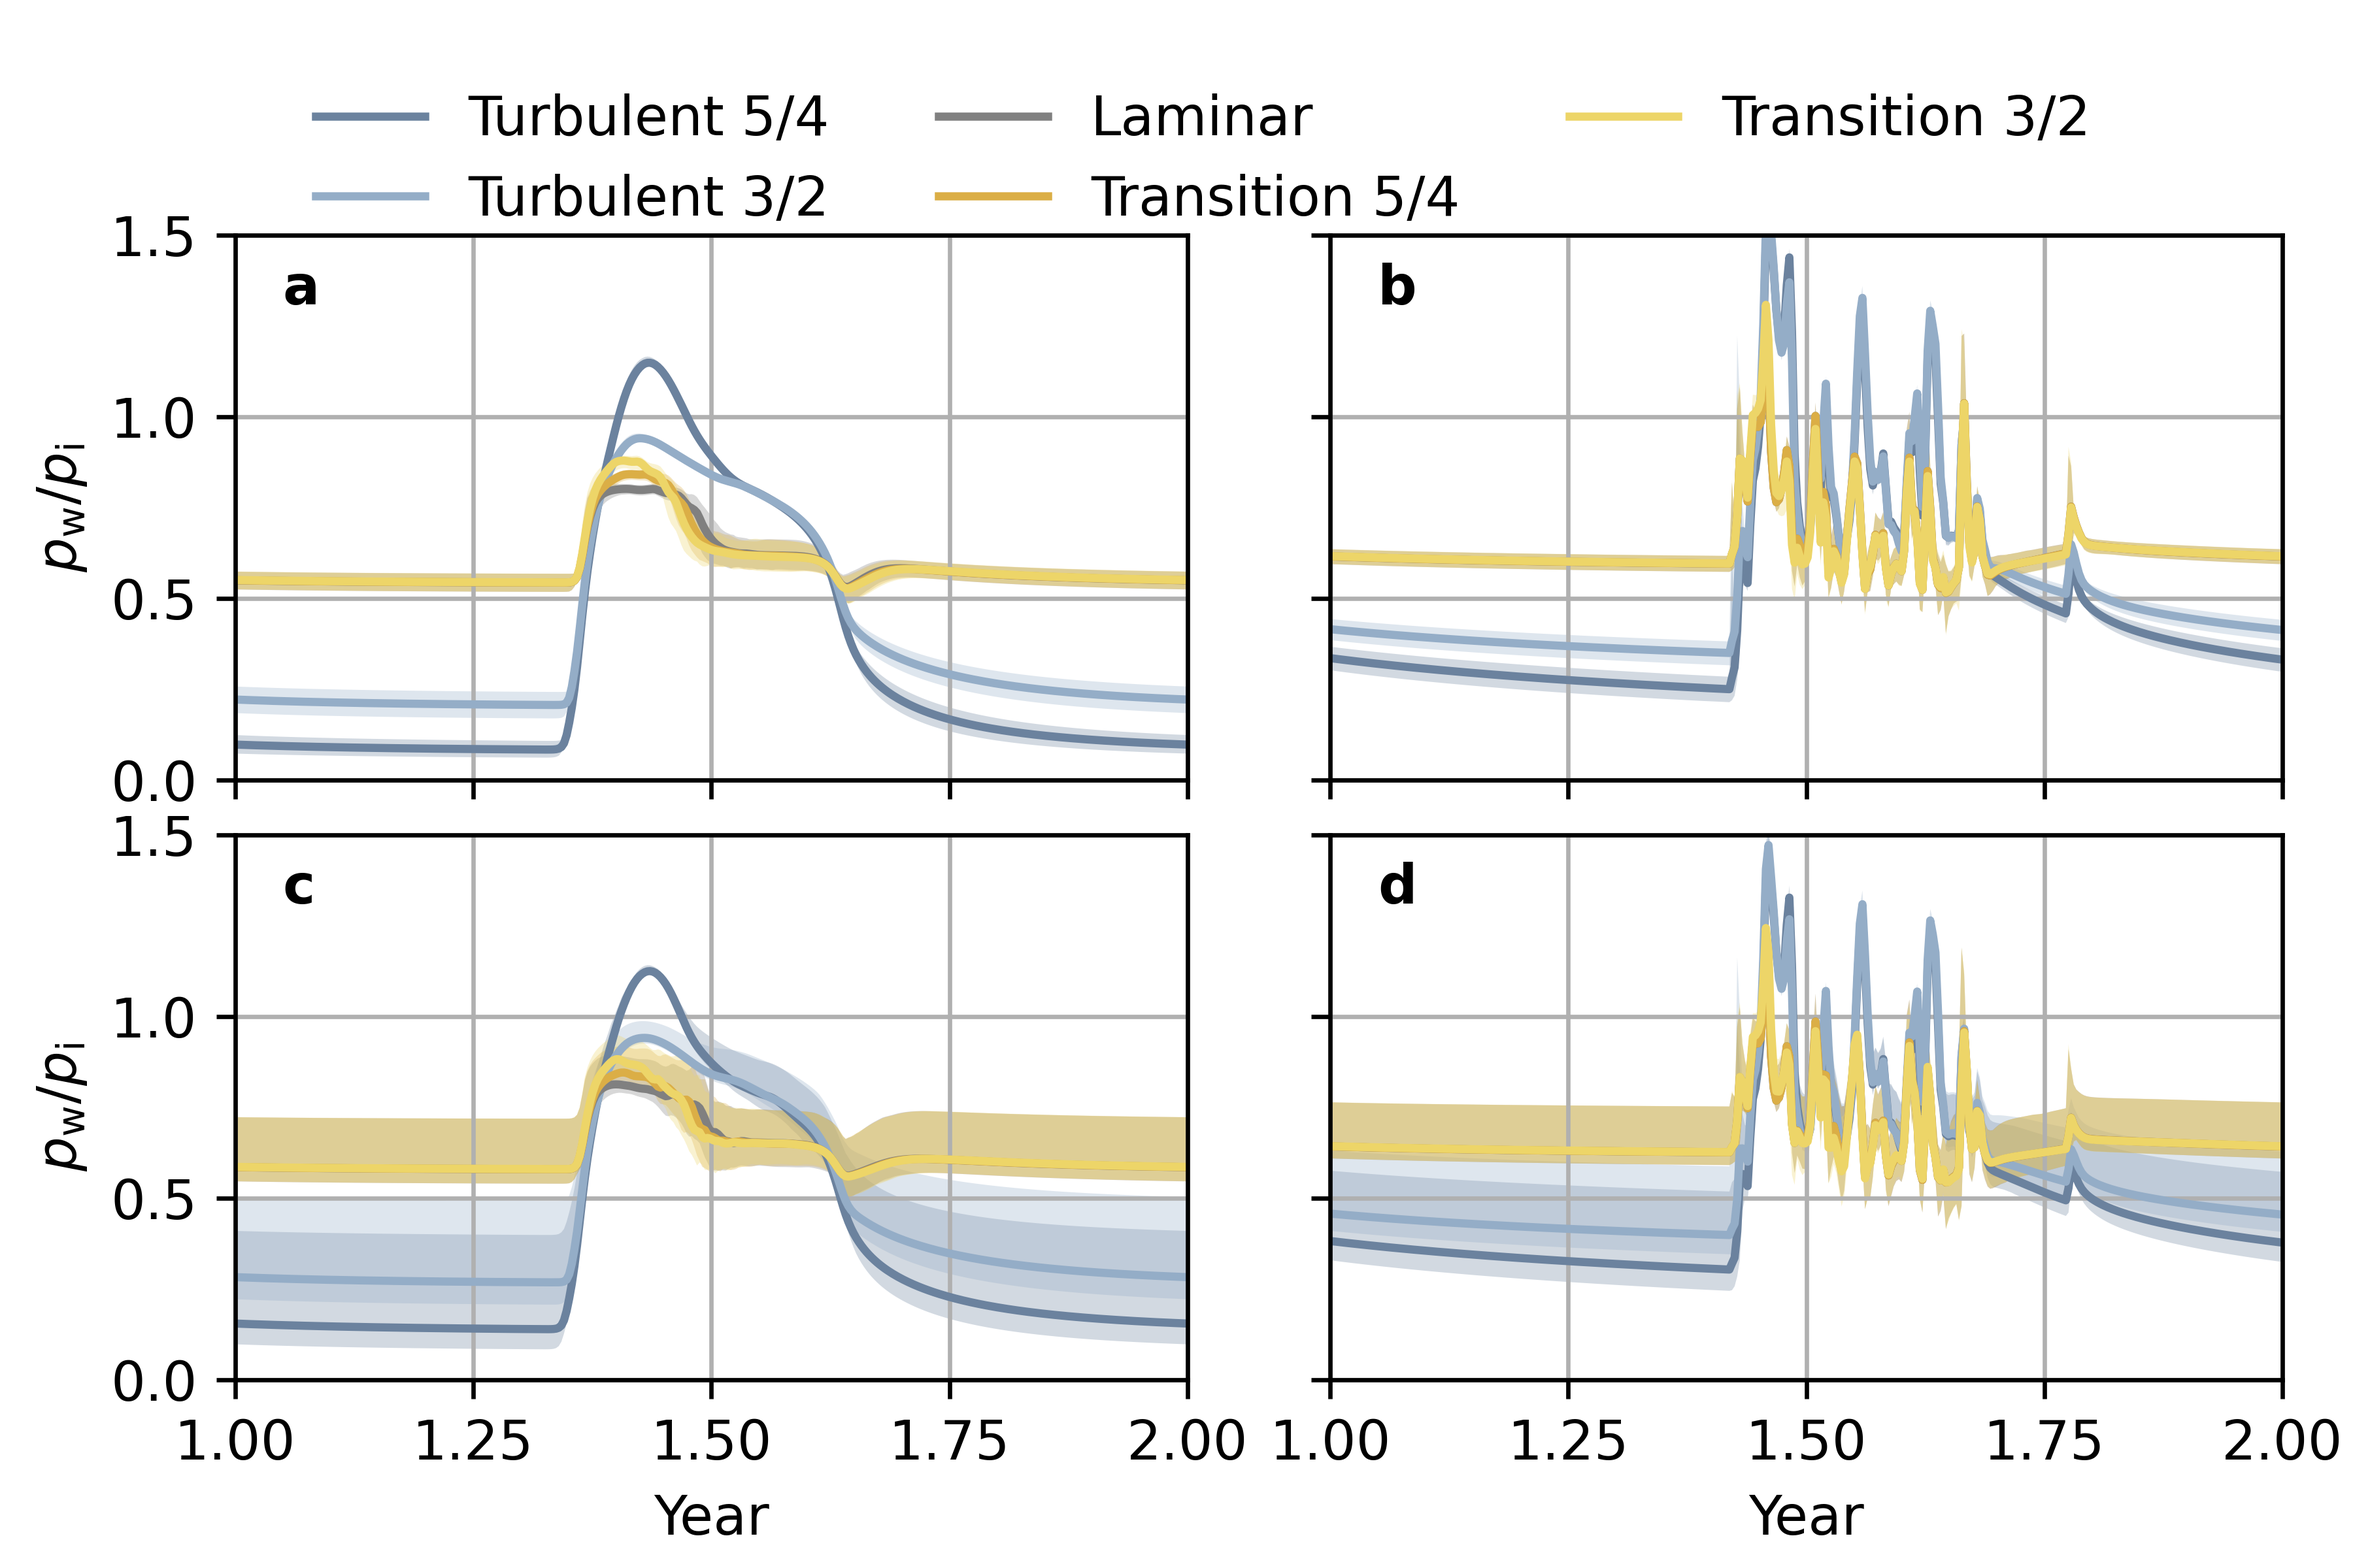
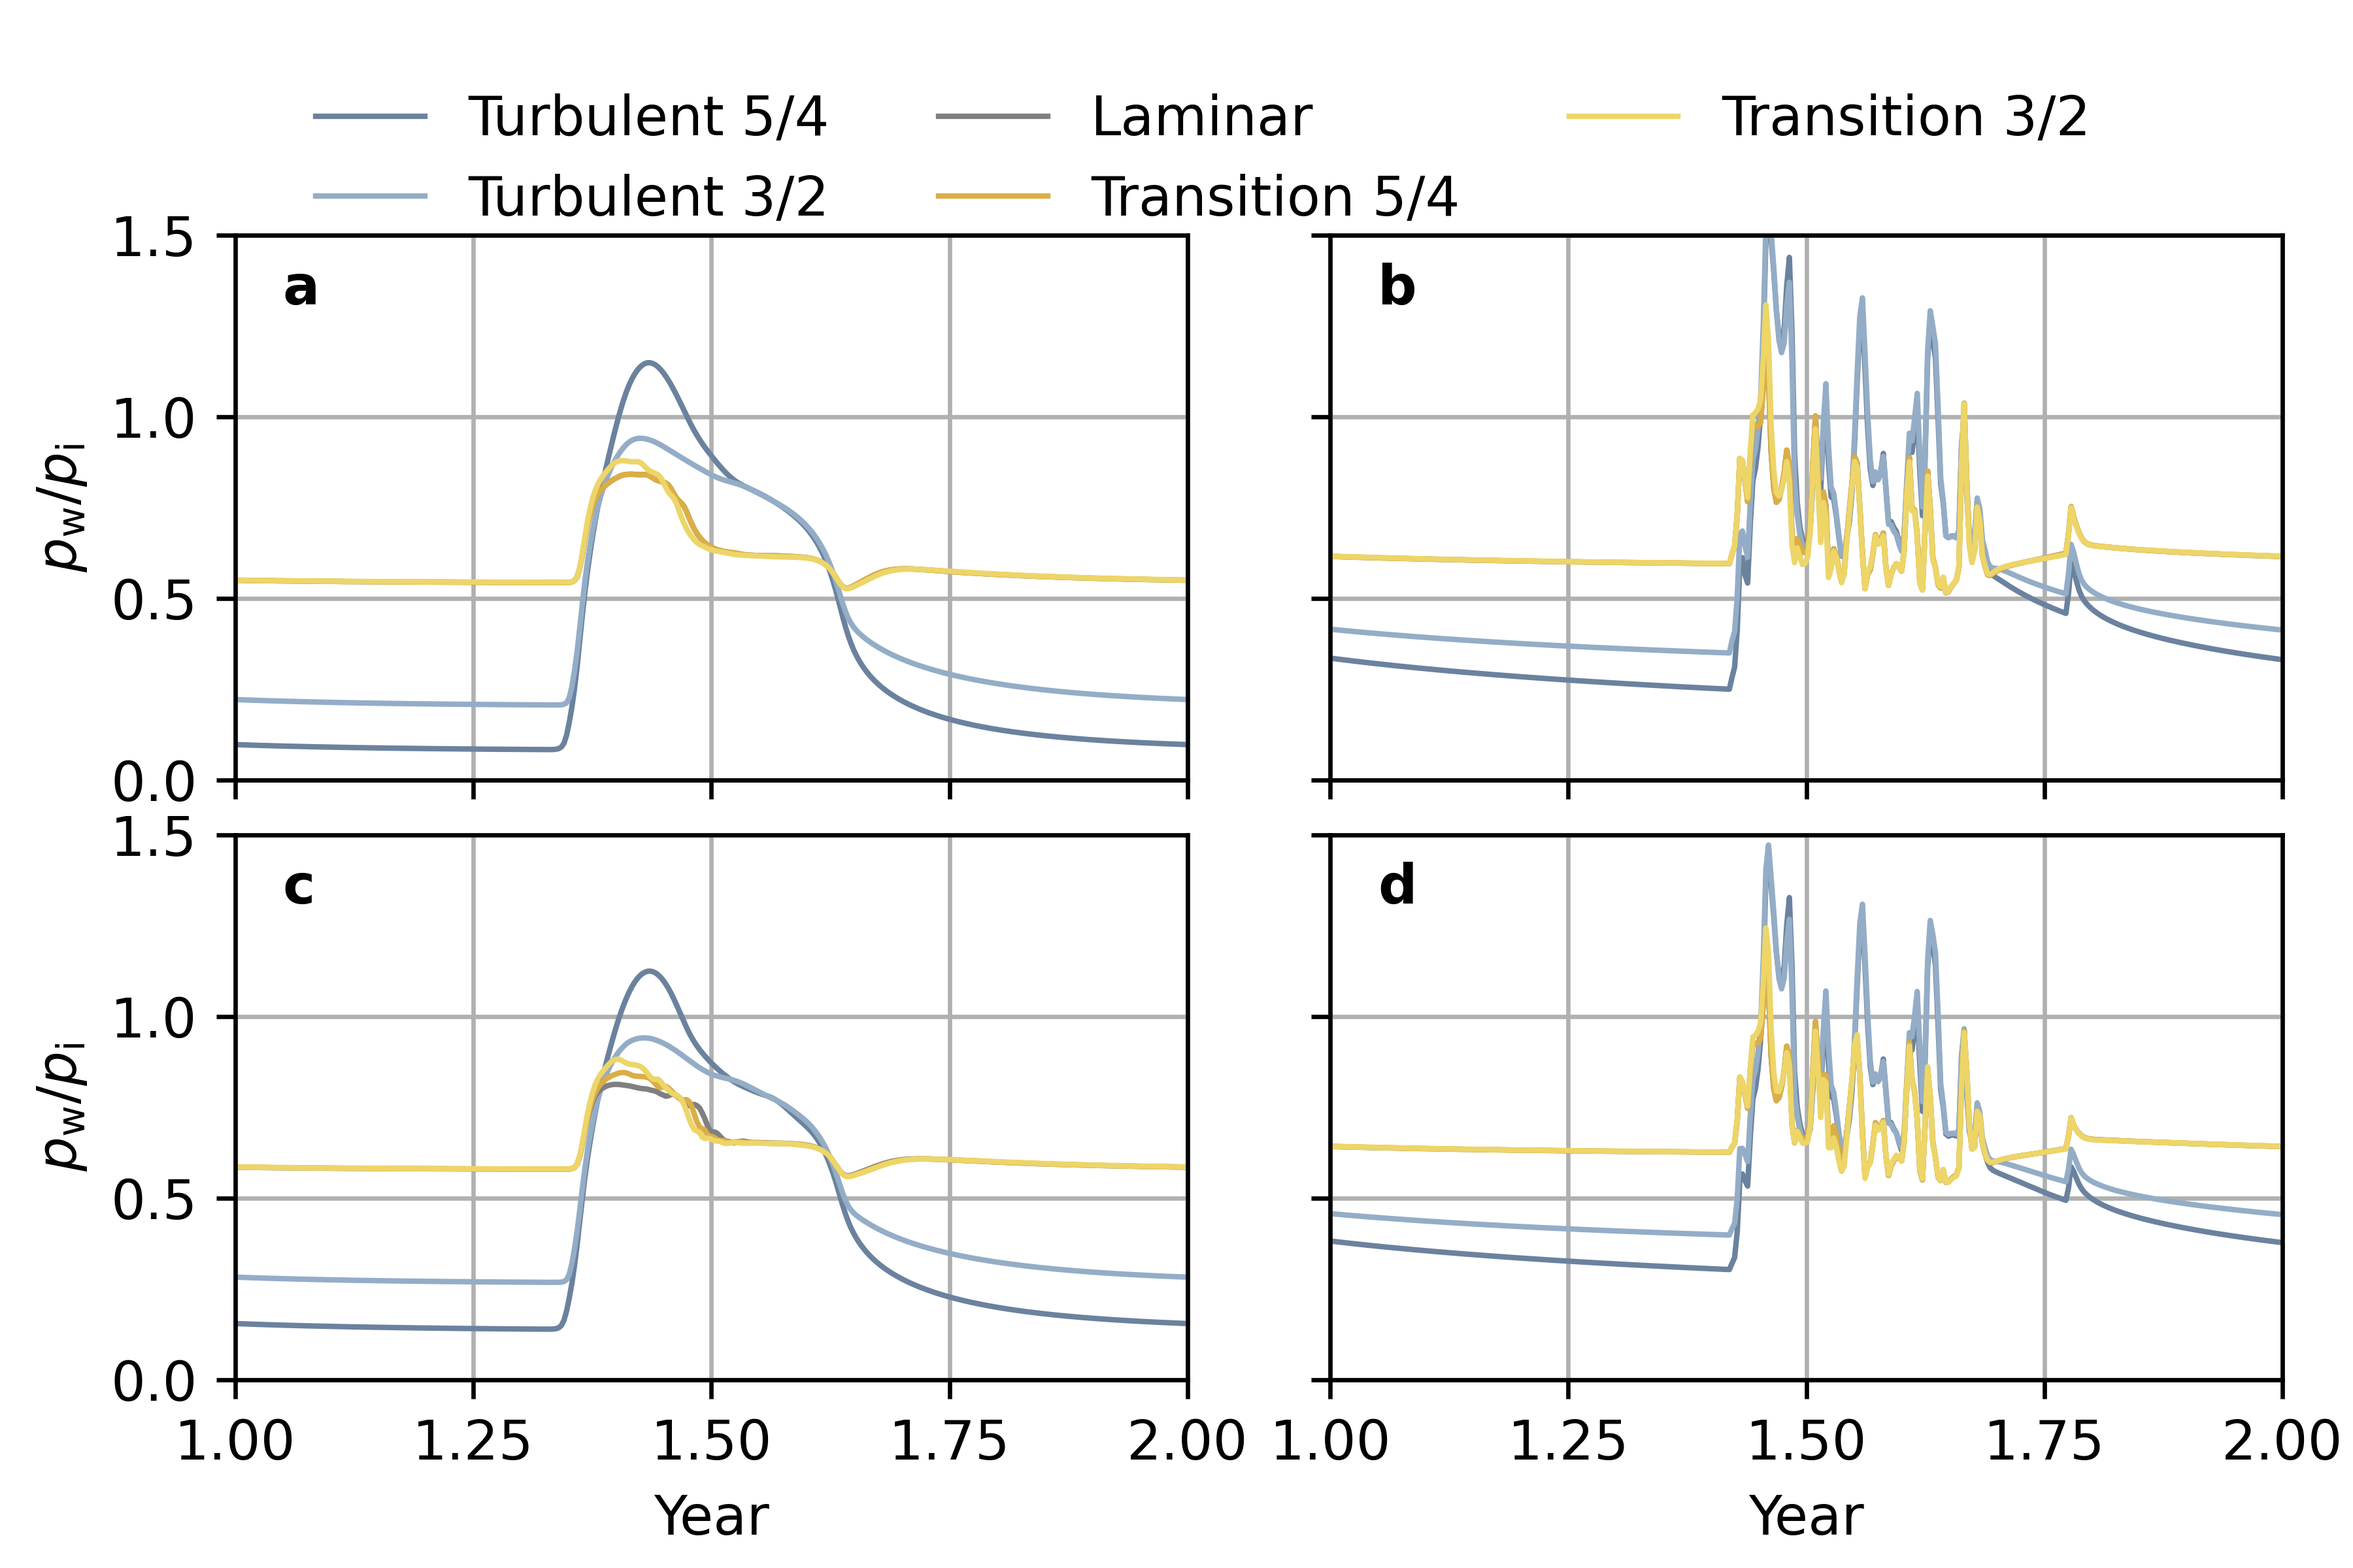
Figure updates

diff --git a/analysis/plot_pressure_maps_timeseries.py b/analysis/plot_pressure_maps_timeseries.py
@@ -227,7 +227,7 @@ def plot_pressure_maps_timeseries(fnames, figname, tslice=defaults.tslice,
             ax_right.set_zorder(2)
             timeax.patch.set_visible(False)
 
-
+        out.close()
 
     ax_scatter.set_ylabel(r'$p_{\rm{w}}/p_{\rm{i}}$')
     ax_scatter.text(0.025, 0.95, map_alphabet[n_cases], transform=ax_scatter.transAxes,
@@ -262,6 +262,8 @@ def plot_pressure_maps_timeseries(fnames, figname, tslice=defaults.tslice,
         axi.set_ylim(ff_ylim)
         axi.set_xticks(t_ticks)
         axi.grid()
+
+        ax_scatter.axvline(xb, color='k', linewidth=1)
 
     axs_timeseries[-1].set_xlabel('Time (a)')
     axs_timeseries[1].set_ylabel(r'$p_{\rm{w}}/p_{\rm{i}}$')

diff --git a/analysis/plot_pressure_grid.py b/analysis/plot_pressure_grid.py
@@ -100,8 +100,8 @@ def plot_pressure_grid(fnames, figname,
             tt = out['time'][:].data/86400/365 - 100
             out.close()
 
-            axii.fill_between(tt, ff_lower, ff_upper, facecolor=colors[jj], alpha=0.3)
-            axii.plot(tt, ff_mean, color=colors[jj], label=labels[jj])
+            # axii.fill_between(tt, ff_lower, ff_upper, facecolor=colors[jj], alpha=0.3)
+            axii.plot(tt, ff_mean, color=colors[jj], label=labels[jj], linewidth=1)
 
     axs.flat[0].legend(bbox_to_anchor=(0.2, 1.15, 1.8, 0.2), ncol=3, frameon=False)
     alphabet = ['a', 'b', 'c', 'd']

diff --git a/analysis/make_pressure_figs.py b/analysis/make_pressure_figs.py
@@ -12,7 +12,7 @@ from plot_pressure_maps_timeseries import plot_pressure_maps_timeseries
 cases = [1, 2, 3, 4, 5]
 fnames = ['../glads/_00_shmip_forcing_shmip_topo/RUN/output_%03d_seasonal.nc'%caseid for caseid in cases]
 figname = '00_pressure_seasonal.png'
-fig_00 = plot_pressure_maps_timeseries(fnames, figname, Qmin=1, melt_forcing='SHMIP')
+#fig_00 = plot_pressure_maps_timeseries(fnames, figname, Qmin=1, melt_forcing='SHMIP')
 
 ## Case 01: Flat topo, KAN_L forcing
 KAN_tslice = 569

diff --git a/analysis/make_grid.py b/analysis/make_grid.py
@@ -9,7 +9,7 @@ from matplotlib import pyplot as plt
 from plot_pressure_grid import plot_pressure_grid
 
 ## Case 00: Flat topo, SHMIP forcing
-cases = [[1, 2, 3, 4, 5],
+cases = [[1, 2, 4, 4, 5],
          [101, 102, 104, 104, 105],
          [201, 202, 203, 204, 205],
          [101, 102, 104, 104, 105]
